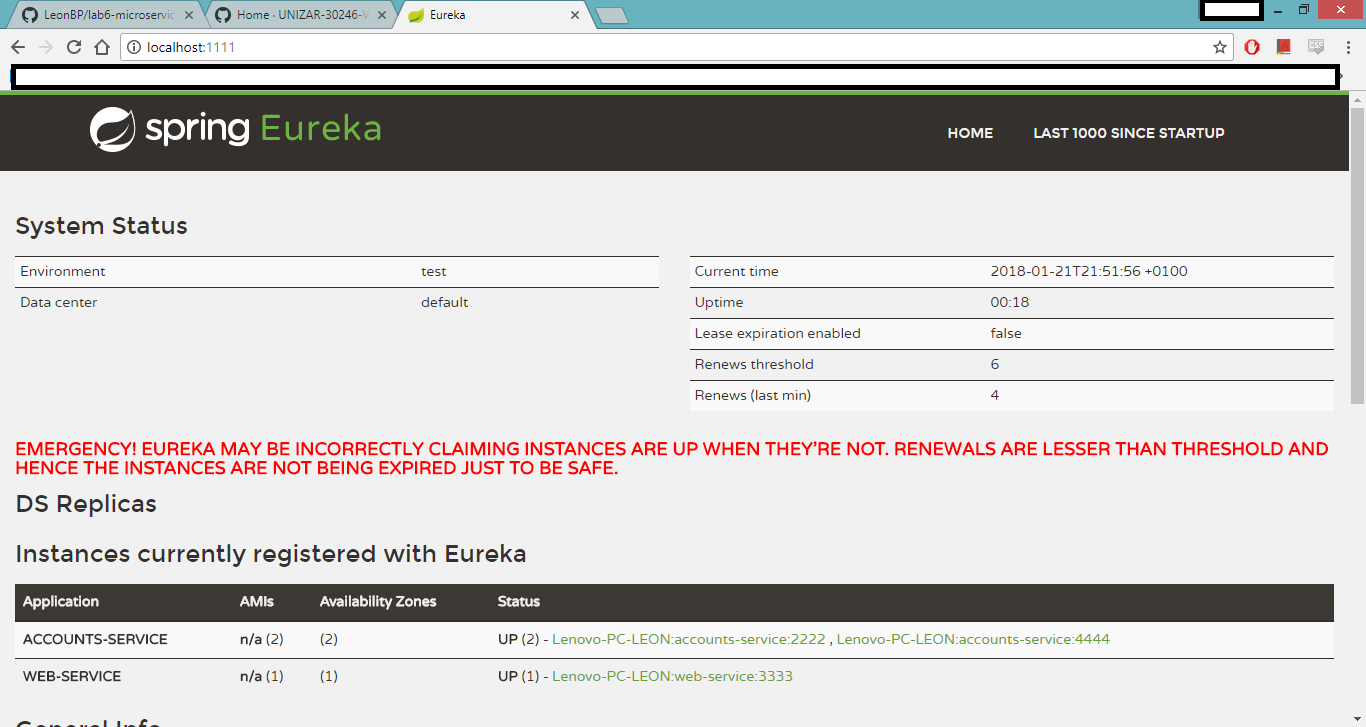
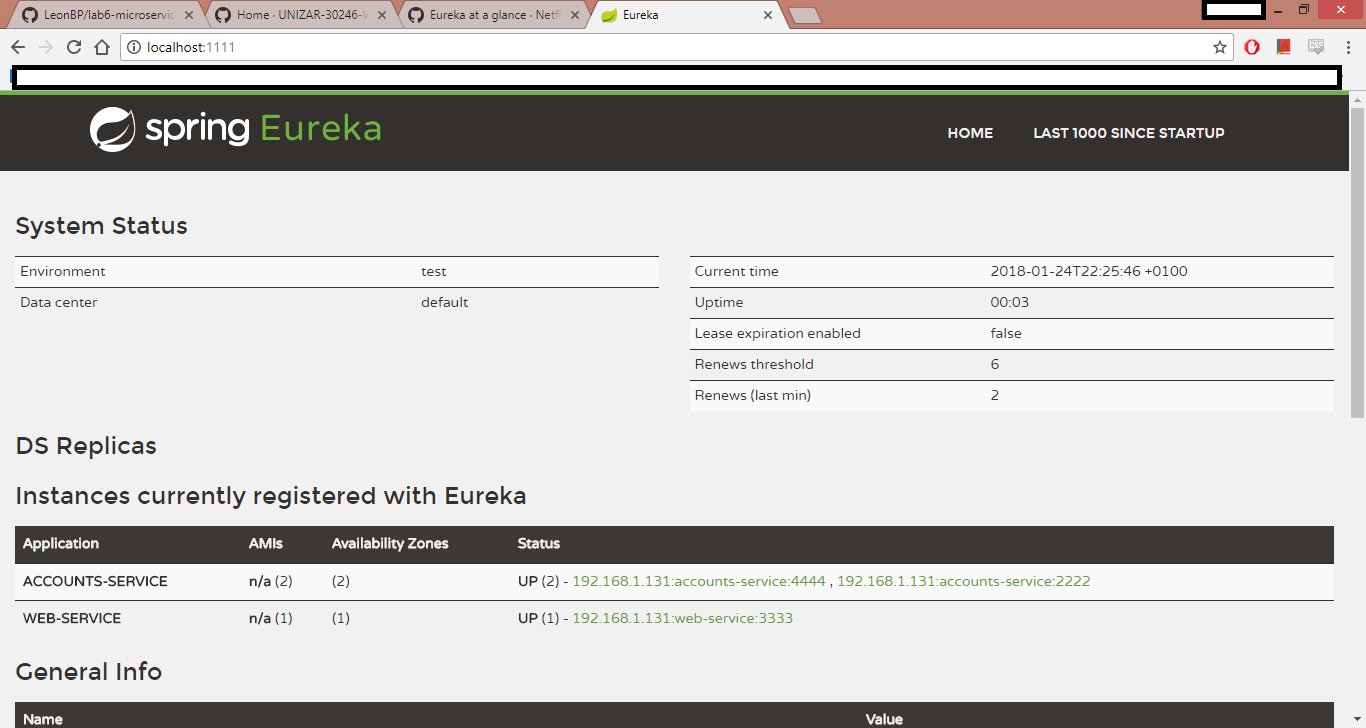
Correción explicación final

diff --git a/README.md b/README.md
@@ -14,7 +14,7 @@ This second account microservice is executed in a forth terminal (bottom-right).
 ![A copy of the account microservice](imagesreport/fourterminals.png)
 
 We can check the effect of the above process by consulting again the dashboard:
-![Eureka warns of a possible malfunction](imagesreport/fourterminals-dashboard.png)
+![The service has been added to accounts](imagesreport/fourterminals-dashboard.png)
 
 ## Microservice in port 2222 is killed
 First, we stop the microservice:
@@ -23,4 +23,4 @@ First, we stop the microservice:
 We check if there has been any change in the dashboard:
 ![The dashboard remains the same](imagesreport/fourterminals-2222stopped-dashboard.png)
 
-The dashboard remains the same. The web service can provide information about the accounts because there is at least one account microservice running (the one in the port 4444). Because the service is provided, Eureka cannot know if one of the account microservice copies is down.
+The service has detected that there is a problem with one of the servers. The web service can provide information about the accounts because there is at least one account microservice running (the one in the port 4444). The service can be provided because Eureka works as a load balancer. This means that the web service sends requests to the account service (in this case in the port 2222), but the communication fails because that server is down. Then, Eureka tries with the other account server (4444) and it responds successfully. This results in some request failed but eventually the service is provided.
